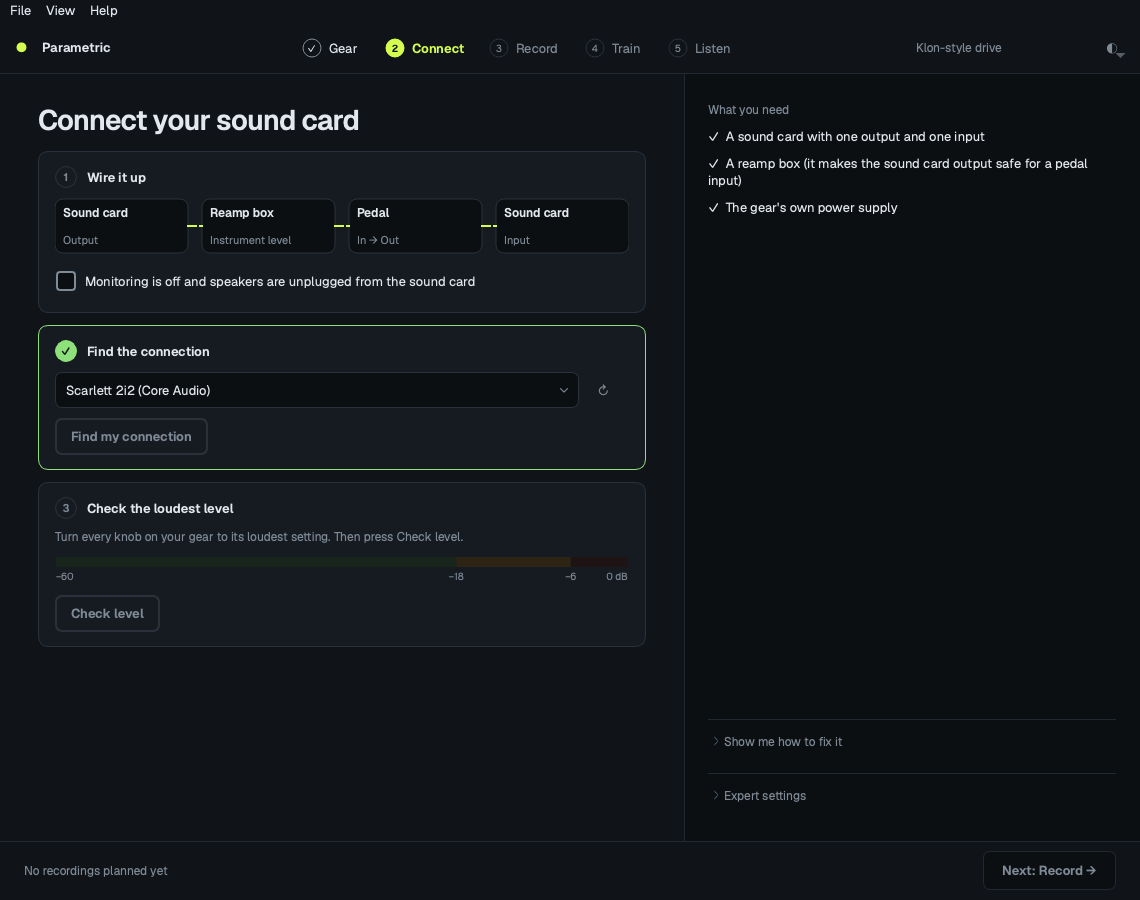
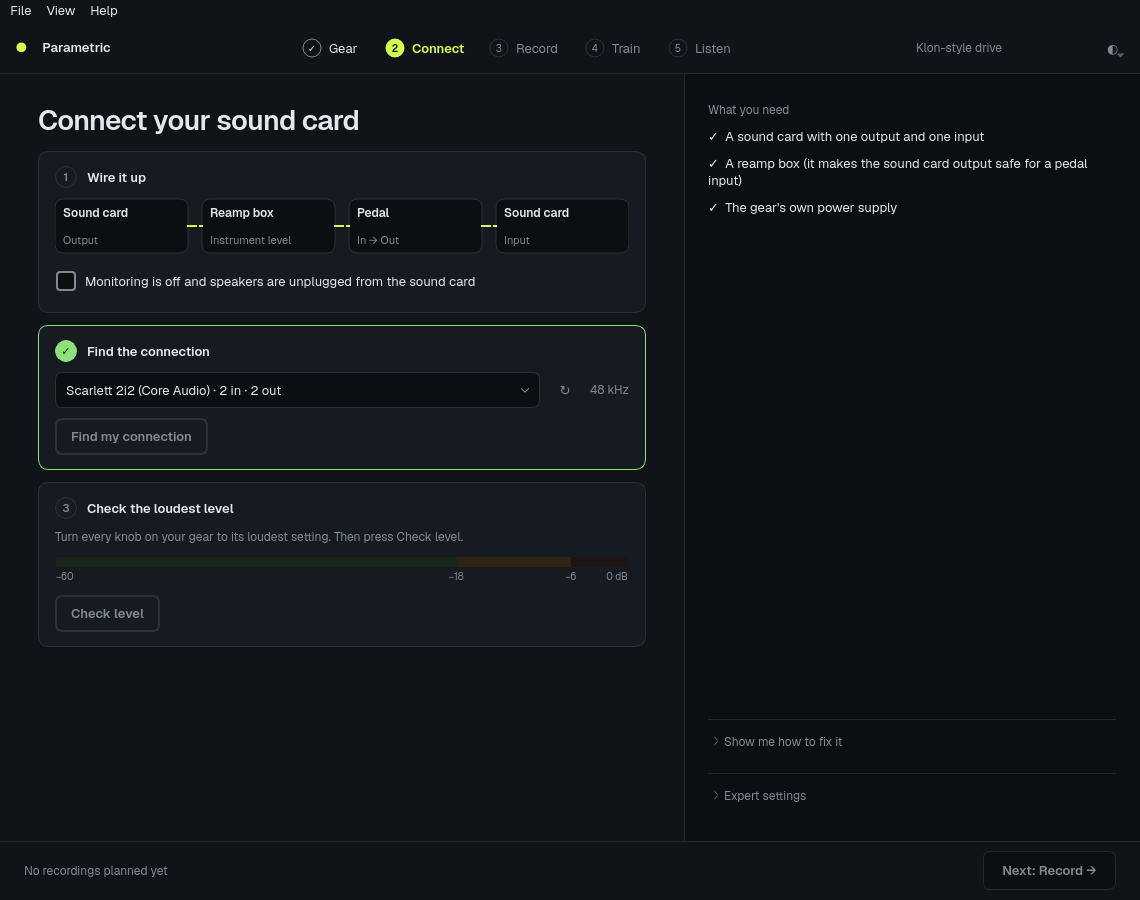
docs: describe split interfaces on Connect

diff --git a/scripts/render_native.py b/scripts/render_native.py
@@ -28,6 +28,7 @@ from PySide6.QtCore import QProcess
 from PySide6.QtTest import QTest
 from PySide6.QtWidgets import QApplication
 from nam.capture.audio import DeviceInfo
+from parametric_mac.capture_cards import CaptureCard
 
 from parametric_mac.find_route import FindResult, Route
 
@@ -85,19 +86,22 @@ class Renderer:
 def build_window(inputs: Path):
     import nam.capture.gui.main as upstream
     from parametric_mac.ui import project_io
+    from nam.capture import audio
+    from parametric_mac import device_rates
     for method in ("warning", "critical", "information"):
         setattr(upstream._QMessageBox, method, staticmethod(lambda *a, **k: None))  # no modal boxes
     project_io.FILES = {p.name: hashlib.sha256(p.read_bytes()).hexdigest() for p in inputs.iterdir()}
     from parametric_mac.gui import MacWindow
+    devices = [DeviceInfo(0, "Scarlett 2i2", "Core Audio", 2, 2, 48000.0)]
+    upstream._list_devices = lambda **kw: devices
+    audio.list_devices = lambda **kw: devices
+    device_rates.live_half_rates = lambda: {}
+    device_rates.live_half_transports = lambda: {}
     window = MacWindow()
+    window._render_devices = devices
     window._inputs_dir = inputs
-    window._has_device = lambda: True
-    window._device_sample_rate = lambda: 48000
-    window._current_sample_rate_warnings = lambda: []
-    # The same sound card on every Mac, so the images never show this machine's devices.
-    device = DeviceInfo(0, "Scarlett 2i2", "Core Audio", 2, 2, 48000.0)
-    window.device_combo.clear()
-    window.device_combo.addItem(upstream.format_device_label(device), device)
+    window.device_combo.setCurrentIndex(0)
+    assert isinstance(window.device_combo.currentData(), CaptureCard)
     window.show()
     return window
 
@@ -115,16 +119,29 @@ def find_route(window) -> None:
         raise RuntimeError(f"Find did not run: {window.find_result.text()!r}")
 
 
-def render_setup(r: Renderer) -> None:
+def render_setup(r: Renderer, connect_only: bool = False) -> None:
     w = r.window
-    r.shoot("start-empty")
+    if not connect_only:
+        r.shoot("start-empty")
     w._start_new_capture()
     w.pedal_name.setText("Klon-style drive")
     w.pedal_name.editingFinished.emit()
-    r.shoot("gear")
+    if not connect_only:
+        r.shoot("gear")
     w.gear_next_button.click()
     r.shoot("connect-not-ready")
+    original = list(w._render_devices)
+    w._render_devices[:] = [*original, DeviceInfo(2, "USB Audio CODEC", "Core Audio", 0, 2, 48000),
+                           DeviceInfo(3, "USB Audio CODEC", "Core Audio", 2, 0, 48000)]
+    w._refresh_devices()
+    w.device_combo.setCurrentIndex(1)
+    r.shoot("connect-split")
     w.wire_check.setChecked(True)
+    find_route(w)
+    r.shoot("connect-split-found")
+    w._render_devices[:] = original
+    w._refresh_devices()
+    w.device_combo.setCurrentIndex(0)
     find_route(w)
     w._on_route_test_success(ROUTE_OK)
     r.shoot("connect-ready")
@@ -176,15 +193,17 @@ def render_train_and_listen(r: Renderer, inputs: Path) -> None:
 def main() -> int:
     parser = argparse.ArgumentParser()
     parser.add_argument("--out", type=Path, default=ROOT / "docs" / "screenshots" / "native")
+    parser.add_argument("--connect-only", action="store_true")
     args = parser.parse_args()
     args.out.mkdir(parents=True, exist_ok=True)
     app = QApplication([])
     inputs = synthetic_inputs()
     renderer = Renderer(app, build_window(inputs), args.out)
-    render_setup(renderer)
-    render_record(renderer, inputs)
-    render_train_and_listen(renderer, inputs)
-    (args.out / "evidence.json").write_text(json.dumps({"files": renderer.files, "audio_recorded": False,
+    render_setup(renderer, args.connect_only)
+    if not args.connect_only:
+        render_record(renderer, inputs)
+        render_train_and_listen(renderer, inputs)
+    (args.out / ("connect-evidence.json" if args.connect_only else "evidence.json")).write_text(json.dumps({"files": renderer.files, "audio_recorded": False,
                                                         "model_trained": False}, indent=2))
     print(f"{len(renderer.files)} screenshots in {args.out}")
     return 0

diff --git a/docs/superpowers/plans/2026-10-20-split-interfaces.md b/docs/superpowers/plans/2026-10-20-split-interfaces.md
@@ -1,6 +1,6 @@
 # Split Interfaces on Connect Implementation Plan
 
-> **For agentic workers:** REQUIRED SUB-SKILL: Use superpowers:subagent-driven-development (recommended) or superpowers:executing-plans to implement this plan task-by-task. Steps use checkbox (`- [ ]`) syntax for tracking.
+> **For agentic workers:** REQUIRED SUB-SKILL: Use superpowers:subagent-driven-development (recommended) or superpowers:executing-plans to implement this plan task-by-task. Steps use checkbox (`- [x]`) syntax for tracking.
 
 **Goal:** Connect lists an interface that macOS shows as two one-direction devices with one name (for example the UMC22, "USB Audio CODEC") as one sound card, and everything after the choice works as now.
 
@@ -53,7 +53,7 @@
   - `capture_cards(devices: Sequence[DeviceInfo], transports: Mapping[tuple[str, str], str] | None = None) -> CardList` — cards keep PortAudio's order (by the lower index of the pair). `transports` maps `(name, "input"|"output")` to a CoreAudio transport fourcc (Task 2 reads it); a split pair is dropped (not ambiguous, just not listed) when either half is `"blue"` or `"blea"`; unknown transports keep the normal rule.
   - `card_label(card: CaptureCard) -> str` → "{name} ({host_api}) · {n} in · {m} out".
 
-- [ ] **Step 1: Write the failing tests** (build `nam.capture.audio.DeviceInfo` values by hand):
+- [x] **Step 1: Write the failing tests** (build `nam.capture.audio.DeviceInfo` values by hand):
 
 ```python
 def test_duplex_device_is_one_card(): ...                       # BlackHole 2ch 2/2 → split False, same index both ways
@@ -76,10 +76,10 @@ def test_recording_resolves_each_half(monkeypatch, tmp_path):   # Review Focus 4
     assert session._resolve_devices() == {"output_device": 2, "input_device": 3}
 ```
 
-- [ ] **Step 2: Run, expect FAIL.**
-- [ ] **Step 3: Implement.** Group devices by `(name, host_api)`; per group count input-capable and output-capable devices (a duplex device counts in both); a group is usable only when each count is exactly 1.
-- [ ] **Step 4: Run, expect PASS**; coverage ≥ 80%.
-- [ ] **Step 5: Commit** — `feat: pair one-direction devices into capture cards`
+- [x] **Step 2: Run, expect FAIL.**
+- [x] **Step 3: Implement.** Group devices by `(name, host_api)`; per group count input-capable and output-capable devices (a duplex device counts in both); a group is usable only when each count is exactly 1.
+- [x] **Step 4: Run, expect PASS**; coverage ≥ 80%.
+- [x] **Step 5: Commit** — `feat: pair one-direction devices into capture cards`
 
 ---
 
@@ -100,15 +100,15 @@ def test_recording_resolves_each_half(monkeypatch, tmp_path):   # Review Focus 4
   - `copy.card_rate_message(input_rate: int | None, output_rate: int | None, file_rate: int | None) -> str | None` — `None` when every known rate equals `file_rate`; else the window D text for the first wrong half (input first). Duplex cards pass the same rate twice and keep the existing `sample_rate_message` wording ("Your sound card runs at …").
   - `copy.card_rate_label(input_rate: int | None, output_rate: int | None) -> str` — "48 kHz" when equal, "in 44.1 kHz · out 48 kHz" when not, "" when unknown.
 
-- [ ] **Step 1: Write the failing tests:**
+- [x] **Step 1: Write the failing tests:**
   - `card_rates` uses live values per direction, falls back per half, returns `None` for ASIO.
   - `card_rate_message(44100, 48000, 48000)` == "The input of your sound card runs at 44.1 kHz. Set it to 48 kHz in Audio MIDI Setup, then check again."; `(48000, 44100, 48000)` names "output"; `(48000, 48000, 48000)` is `None`; a duplex card at 44.1 kHz keeps today's text.
   - `card_rate_label` cases above.
   - On macOS, `live_half_rates()` and `live_half_transports()` return dicts whose keys are `(str, "input"|"output")` tuples (smoke test; skip off macOS).
-- [ ] **Step 2: Run, expect FAIL.**
-- [ ] **Step 3: Implement.** Keep the `ctypes` code in one function under 50 lines by reusing small helpers; mark only the CoreAudio calls `# pragma: no cover - needs CoreAudio`.
-- [ ] **Step 4: Run, expect PASS.**
-- [ ] **Step 5: Commit** — `feat: read the sample rate of each half of a sound card`
+- [x] **Step 2: Run, expect FAIL.**
+- [x] **Step 3: Implement.** Keep the `ctypes` code in one function under 50 lines by reusing small helpers; mark only the CoreAudio calls `# pragma: no cover - needs CoreAudio`.
+- [x] **Step 4: Run, expect PASS.**
+- [x] **Step 5: Commit** — `feat: read the sample rate of each half of a sound card`
 
 ---
 
@@ -134,7 +134,7 @@ def test_recording_resolves_each_half(monkeypatch, tmp_path):   # Review Focus 4
   - Window E: `_has_device()` is false, so Find, Check level and Next stay off (existing rules); choosing a card clears `_missing_card` and saves.
   - Window D: the existing rate rule (`_rate_problem`) uses `card_rate_message`, so Find, Check level and Next stay off.
 
-- [ ] **Step 1: Write the failing tests** (`run_gui`; stub `nam.capture.gui.main._list_devices` — or the method that fills `self._devices` — to return fixed `DeviceInfo` lists; stub `live_half_rates`):
+- [x] **Step 1: Write the failing tests** (`run_gui`; stub `nam.capture.gui.main._list_devices` — or the method that fills `self._devices` — to return fixed `DeviceInfo` lists; stub `live_half_rates`):
   - A: devices = BlackHole (duplex), "USB Audio CODEC" out-half 2 + in-half 3, MacBook Pro Microphone (in only) → the list holds exactly two entries, "BlackHole 2ch (Core Audio) · 2 in · 2 out" and "USB Audio CODEC (Core Audio) · 2 in · 2 out"; choosing the codec saves `input_device == output_device == "USB Audio CODEC"`.
   - A2 (only a split interface): devices = the two codec halves, MacBook Pro Microphone and MacBook Pro Speakers → the codec is the only entry and `no_devices_label` is hidden.
   - C: two identical codec pairs → no codec entry; `card_notice` has the window C text with the name; BlackHole chosen, wire check on → `find_button` enabled.
@@ -142,10 +142,10 @@ def test_recording_resolves_each_half(monkeypatch, tmp_path):   # Review Focus 4
   - E (Review Focus 2, 5): a project saved with "USB Audio CODEC", reopened with only BlackHole present → `device_combo.currentIndex() == -1`, the window E text, Find off, and the project file still names "USB Audio CODEC"; refresh with the codec back → selected, notice gone.
   - E after twins: same project, two identical codec pairs present → window E state (plus the window C notice).
   - Help text contains the new line.
-- [ ] **Step 2: Run, expect FAIL.**
-- [ ] **Step 3: Implement** to match windows A, C, D and E of `connect.png`.
-- [ ] **Step 4: Run the full suite → PASS.**
-- [ ] **Step 5: Commit** — `feat: list split interfaces as one sound card on Connect`
+- [x] **Step 2: Run, expect FAIL.**
+- [x] **Step 3: Implement** to match windows A, C, D and E of `connect.png`.
+- [x] **Step 4: Run the full suite → PASS.**
+- [x] **Step 5: Commit** — `feat: list split interfaces as one sound card on Connect`
 
 ---
 
@@ -163,15 +163,15 @@ def test_recording_resolves_each_half(monkeypatch, tmp_path):   # Review Focus 4
   - `scan_target` passes both indexes.
   - `_find_target()` resolves both indexes **fresh** with `find_device(card.name, kind=…, host_api=card.host_api)`; if either lookup fails, or `capture_cards(list_devices())` no longer lists that name, it returns `None` and Find shows `FIND_FAILED_TEXT` with **Try again** (no scan starts).
 
-- [ ] **Step 1: Write the failing tests:**
+- [x] **Step 1: Write the failing tests:**
   - `test_scan_target_passes_the_device_values_in_order` (Phase 2) updated: `ScanTarget(3, 2, 2, 2, RATE, 256, "low", frozenset())` → the factory receives `(3, 2, 2, 2, 256, "low", cancel)`.
   - Review Focus 1: the card in the combo holds `input_index=3, output_index=2`, but the stubbed fresh device table now has the halves at 5 and 4 → the recorded `ScanTarget` has `(5, 4)`; with the halves gone → no scan, the failure text.
   - Window B: a split card chosen, a found result → "Found: Output 1 → Input 1." as before.
   - Update the Phase 2 `tests/test_ui_find.py` `SETUP` (and the second fake device in its device-change block): it adds `DeviceInfo` values straight to `device_combo`, which the fresh lookup cannot find. Stub the device table instead and let the combo fill from it; assert on `target.input_index` / `target.output_index` where it asserted `device_index`.
-- [ ] **Step 2: Run, expect FAIL.**
-- [ ] **Step 3: Implement.**
-- [ ] **Step 4: Run the full suite → PASS.**
-- [ ] **Step 5: Commit** — `feat: find the connection on a split interface`
+- [x] **Step 2: Run, expect FAIL.**
+- [x] **Step 3: Implement.**
+- [x] **Step 4: Run the full suite → PASS.**
+- [x] **Step 5: Commit** — `feat: find the connection on a split interface`
 
 ---
 
@@ -180,9 +180,9 @@ def test_recording_resolves_each_half(monkeypatch, tmp_path):   # Review Focus 4
 **Files:**
 - Modify: `scripts/render_native.py` (its stub sound card becomes a `CaptureCard`; add a `connect-split` shot of window A's list state), `README.md` (troubleshooting row: "Your interface is missing from the list"), `docs/hardware-umc22.md` (the UMC22 appears as "USB Audio CODEC"; no Aggregate Device), `docs/validation.md` (dated entry), `docs/screenshots/native/`.
 
-- [ ] **Step 1:** Update `render_native.py`; render offscreen; compare Connect with windows A and B in both themes.
-- [ ] **Step 2:** Update the docs.
-- [ ] **Step 3:** Full suite → PASS. Commit — `docs: describe split interfaces on Connect`
+- [x] **Step 1:** Update `render_native.py`; render offscreen; compare Connect with windows A and B in both themes.
+- [x] **Step 2:** Update the docs.
+- [x] **Step 3:** Full suite → PASS. Commit — `docs: describe split interfaces on Connect`
 - [ ] **Step 4 (the user, with hardware):** UMC22 plugged in, no Aggregate Device: it appears as "USB Audio CODEC (Core Audio) · 2 in · 2 out"; Find returns Output 1 → Input 1; the level check passes; one take records with no dropout. Write the result in `docs/validation.md`.
 
 ---
@@ -191,3 +191,21 @@ def test_recording_resolves_each_half(monkeypatch, tmp_path):   # Review Focus 4
 
 - **Spec coverage:** §4.1 pairing and uniqueness → Task 1; §4.2 list and counts → Tasks 1, 3; §4.3 saving, reopening, missing card → Tasks 1 (recording resolution), 3; §4.4 per-half rates → Tasks 2–3; §4.5 Find → Task 4; §4.6 help and docs → Tasks 3, 5; §6 verification → Tasks 1–5.
 - **Interfaces:** Task 4 renames Phase 2's `ScanTarget.device_index`; every Phase 2 caller (`scan_target`, `_find_target`, tests, `render_native.py`) is listed in Tasks 4–5.
+
+
+## Implementation status — 2026-10-20
+
+Tasks 1–4 landed together in `96f13a9` (`feat: support split sound cards on Connect and Find`),
+so the capture-card item data and both Find device indexes change atomically. The planned
+individual feature commits above are consolidated into that commit. Tests are in
+`test_capture_cards.py`, `test_device_rates.py` (including the copy cases), `test_ui_cards.py`
+(including fresh Find resolution), and the updated existing Connect/Find tests.
+
+Full-suite gate: **282 passed, 1 skipped** (macOS CoreAudio smoke), ten upstream Lightning
+warnings. Both new core modules have **100% coverage** of testable code. The CoreAudio walk
+also runs against an injected backend; native adapter calls still require the Mac. The
+Linux font test accepts the expected family among Fontconfig's additional weight aliases.
+
+Task 5's software steps are complete: documentation, a Connect-only renderer and 16 native
+screenshots, including split selection and a simulated Find result in both themes/sizes.
+The remaining hardware step is deliberately unchecked and recorded in `docs/validation.md`.

diff --git a/docs/validation.md b/docs/validation.md
@@ -77,3 +77,36 @@ The Mac field-sizing problem in the user's screenshot was traced to platform def
 
 
 The October 14 visual refinement bundles the approved Inter face as static Regular, Medium and SemiBold instances, with no runtime font download or fontTools dependency. Packaging checks confirm font, license and vector assets are present in the built wheel. Qt controls retain their input and accessibility semantics while their chrome, field grouping, disclosure arrows, physical diagrams and training presets match the mockups. Profile selection still changes the original duration combo, including actual epoch counts, and cannot deselect the active preset. Native tests now cover a real failed check job opening the error disclosure in its checked state and the first click collapsing it. Disabled profile styling and failure disclosure geometry were reviewed in actual rendered states.
+
+
+## Split interfaces on Connect — 2026-10-20
+
+Implemented on `plan/split-interfaces` (PR #7), stacked on Find my connection (PR #6).
+The full suite passed **282 tests**, with **1 macOS-only smoke test skipped** and ten upstream
+Lightning deprecation warnings, in **498.73 seconds** on Linux/Python 3.13/PySide6 6.12.
+`capture_cards.py` and the testable part of `device_rates.py` both have **100% coverage**;
+only the native CoreAudio adapter calls are excluded.
+The pure device-list tests cover duplex and split cards, ambiguous names, separate host APIs,
+Bluetooth exclusion, stable ordering and upstream recording resolving each direction by name.
+Offscreen GUI tests cover saving the selected card, a missing or ambiguous saved card without
+rewriting the project, restoration on refresh, per-half rate blocks, and Find resolving changed
+indexes before a scan. The optional timing loopback stays off for new projects even before a
+card has been selected. No upstream files or runtime dependencies changed.
+
+CoreAudio's stream-scope walk and transport decoding have an injected-backend test; its native
+smoke test is skipped on Linux. Native calls still need macOS qualification. The Linux test
+runtime required Tk libraries extracted under `/tmp` because the pinned trainer imports Tk.
+The bundled-font assertion accepts Linux's additional weight-family aliases while still checking
+the expected family and actual regular/medium/semibold styles.
+
+`render_native.py --connect-only` produced 16 offscreen screenshots, in dark and light at
+1140×900 and 800×680. They include the selected split card and a simulated Find result of
+Output 1 → Input 1. The rate label reserves its text width; the compact mismatched-rate state
+has a geometry assertion. `connect-evidence.json` records that no audio was recorded and no
+model was trained for these screenshots. The design detector reported no findings on the
+changed Connect modules.
+
+**Hardware check pending:** on the Mac, plug in the UMC22 without an Aggregate Device. Confirm
+**USB Audio CODEC (Core Audio) · 2 in · 2 out**, Find returning **Output 1 → Input 1**, a passed
+**Check level**, and one recorded take without dropouts. Record the outcome here; automated
+and offscreen tests do not establish those hardware results.

diff --git a/docs/hardware-umc22.md b/docs/hardware-umc22.md
@@ -38,10 +38,10 @@ The optional reference route uses INST 2 at low gain. A line output may overload
 1. Disconnect speakers from OUTPUT L/R. They are now capture sends. Close DAWs or disable all software input monitoring.
 2. Turn **DIRECT MONITOR off**. Returning captured audio to a reamp send can create feedback. The headphone output shares the playback mix; it is not a spare independent capture output.
 3. Start with OUTPUT, reamp level and input gains low. Leave phantom power off for this direct pedal setup. Connect the pedal's correct supply.
-4. In macOS Audio MIDI Setup, select the UMC22 and use 48 kHz for input/output. Use the format the device exposes; writing a 24-bit WAV does not increase the interface's converter resolution.
+4. The UMC22 appears as **USB Audio CODEC (Core Audio) · 2 in · 2 out** in Connect. macOS can expose its input and output as two devices; the app pairs them, so no Aggregate Device is needed. In Audio MIDI Setup, select each **USB Audio CODEC** half and set both to 48 kHz. Use the format the device exposes; writing a 24-bit WAV does not increase the interface's converter resolution.
 5. Grant microphone permission to Terminal/Python/the app that launches capture if macOS asks. Device naming may be generic USB audio, so identify the UMC22 by unplugging and reconnecting if needed.
 6. Before Find, bring OUTPUT, the reamp level and the INST 1 gain up from minimum to a moderate setting: Find plays quiet clicks, and a dark or quiet pedal at minimum gain may not return them. In **Connect**, select the UMC22 and click **Find my connection**. It should find Output 1 → Input 1. If the optional loopback cable is plugged in and **Use the optional timing loopback** is off, Find shows two connections: choose **Use Output 1 → Input 1**. To set the channels by hand, open **Expert settings**: main send/return = channel 1, optional loopback send/return = channel 2. Channels in the app are numbered from one. Start with a 512-frame buffer; increase it if dropouts occur.
-7. Run **Test connection** before recording training examples. Verify a clean return, a clean reference if enabled, and a detected timing signal. Software cannot turn DIRECT MONITOR off for you.
+7. Run **Check level** before recording training examples. Verify a clean return, a clean reference if enabled, and a detected timing signal. Software cannot turn DIRECT MONITOR off for you.
 
 ## Set levels once
 

diff --git a/README.md b/README.md
@@ -99,6 +99,7 @@ For amp controls, select **Amp** on Gear and build your own layout from the star
 | Python version, architecture or Tk error | Run `Install.command` with `PARAMETRIC_PYTHON` unset to use uv-managed Python 3.12 with Tk. Rename any incompatible `.venv` first. Confirm Terminal is running without Rosetta. System Python 3.15 is fine; the trainer uses its own runtime. |
 | uv or Python download fails | Check your internet connection and rerun. You can also install uv with `brew install uv` or [Astral's installer](https://docs.astral.sh/uv/getting-started/installation/). |
 | Finder will not open a `.command` file | Launch it from Terminal using `./Capture.command`. For a downloaded file blocked by macOS, use the normal Finder/Open or Privacy & Security flow if you trust the source. |
+| Your interface is missing from the list | A split USB interface appears as one sound card (for example **USB Audio CODEC**), with its input/output counts. No Aggregate Device is needed. If two cards share a name, unplug one and press refresh. Bluetooth pairs are excluded. A missing saved card stays unselected until you reconnect it or choose another. |
 | No interface or no input | Connect your sound card, press refresh (↻) on Connect and select it. Allow microphone access for the launching app, usually Terminal or Python, in System Settings → Privacy & Security → Microphone. |
 | Find my connection finds nothing | Check the cables, the power of the reamp box and your gear, and that the checkbox steps are done. Then use **Choose channels myself**. |
 | Sample-rate warning | Click **Open Audio MIDI Setup** on Connect, set your sound card to 48 kHz, then check the level again. |
